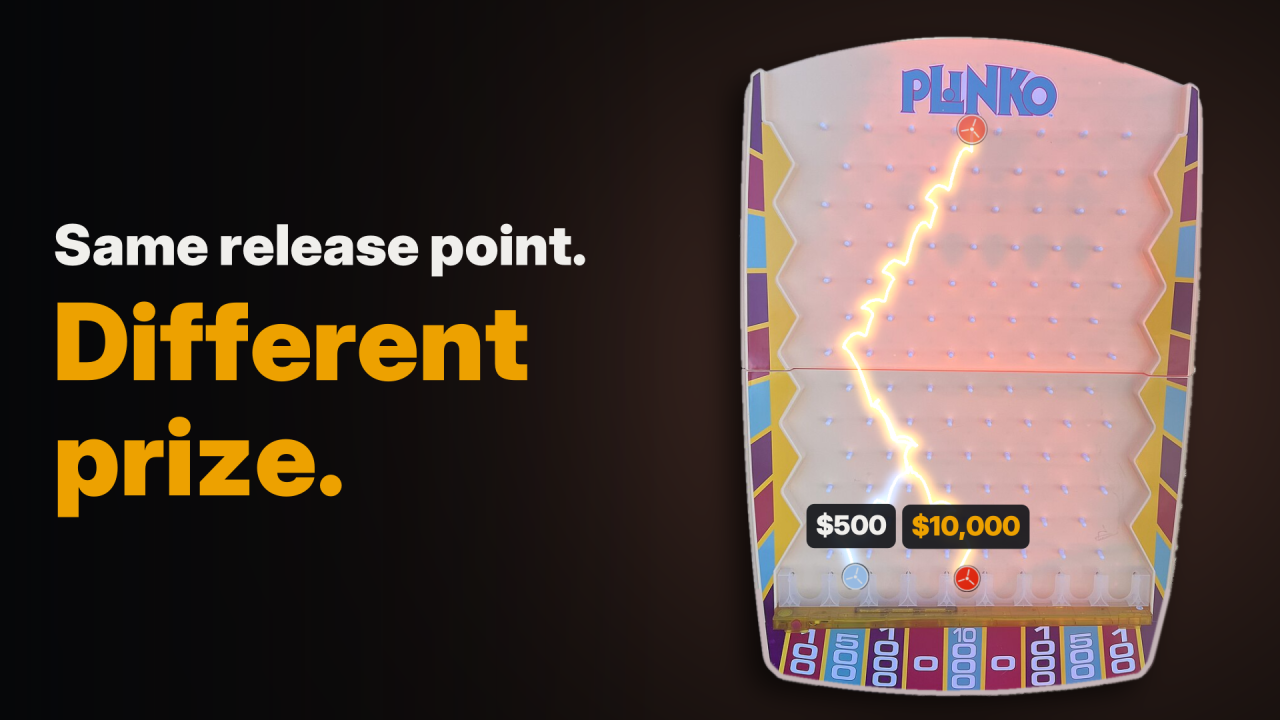
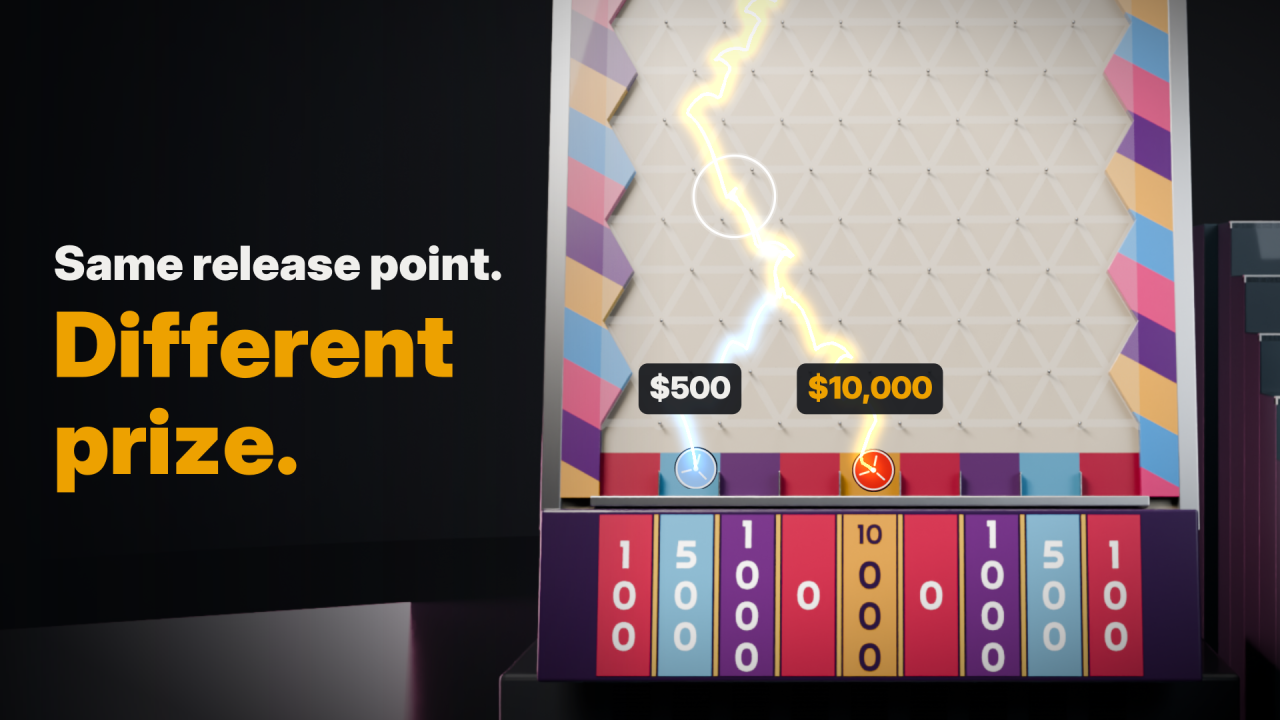
Thumbnails from our board only; photo removed
Picture 3 is now a close-up of our board's lower half (front plate): the
paths parting with a ring, rendered chips in their slots, the 1970s prize
panel. The third-party photo, its cut-out code and its credit notes are
removed; nothing in the film or thumbnails needs a credit now. The copy
lists the nine thumbnails, recommends A3/B3/C3 and pairs them with titles.

Claude-Session: https://claude.ai/code/session_01S7EUMzPhLyDgSQHoFb2Ud4

diff --git a/plinko/thumbs_chaos.py b/plinko/thumbs_chaos.py
@@ -1,4 +1,4 @@
-"""Thumbnails for the chaos cut (1280x720): every pairing of three lines of text with three pictures.
+"""Thumbnails for the chaos cut (1280x720): every pairing of three lines of text with three pictures of our board.
 
     python3 thumbs_chaos.py   -> ../videos/plinko/thumbnails/plinko_chaos_thumb_<text><picture>.png (9 files)
 
@@ -9,13 +9,10 @@ Picture 1  the hook's last frame: a $10,000 drop and its atom-close replay in $5
            with text C, which names $0)
         2  the warm-board pair: the same release point, the board 0.00006 C warmer, $10,000 and $0, with a ring
            where the paths part
-           (picture 3 with text C uses another pair from the same experiment, results/chaos2_warm_thumb.npz, that
-           also lands in $0 but parts earlier and swings up to 54 cm apart, so the split is easy to see)
-        3  a photo of a real Plinko board (the official home game), cut out of its background (smooth curved
-           base), with the film's two paths drawn on its own pegs and our chips in the slots: "The Price Is Right Plinko Home Game" by TaurusEmerald, CC BY-SA 4.0
-           (Wikimedia Commons; see
-           ../videos/plinko/thumbnails/sources/ATTRIBUTION.md). The *3 thumbnails adapt it, so they are CC BY-SA 4.0
-           too, and a description that uses one must carry the attribution.
+        3  our board up close (lower half, front camera): the paths glowing on its pins, rendered chips
+           (blender/render_thumb_chips.py) in their slots, the ring where the paths part. A and B use the hook
+           pair; C uses another pair from the same warm-board experiment (results/chaos2_warm_thumb.npz) that
+           also lands in $0 but parts earlier and swings up to 54 cm apart, so the split is easy to see.
 Text is sized down where needed so it never reaches the board.
 """
 import cairo
@@ -80,189 +77,44 @@ def labels(cm, crop, win, rep, split_t=None):
     return pill_layer(lambda x, y: np.array(cm.px(C3.board_world(x, y, 0.03), crop)), win, rep, 46, split_t)
 
 
-SRC = "../videos/plinko/thumbnails/sources/The_Price_Is_Right_Plinko_Home_Game_960px.jpg"
 CHIPS = {"red": "blender/assets/thumb/chip_red.png", "blue": "blender/assets/thumb/chip_blue.png"}
+CLOSE = (0.54, 0.553, 0.548)           # front camera, zoomed on the lower board: the split, the slots, the prize panel
 
 
-def photo_pegs(im):
-    """Peg centres in the photo: small bluish-white dots on the cream board, below the logo."""
-    b, g, r = [im[..., i].astype(int) for i in range(3)]
-    m = (((b - r) > 6) & (b > 170)).astype(np.uint8) * 255
-    _, _, st, cen = cv2.connectedComponentsWithStats(m)
-    return np.array([c for c, q in zip(cen[1:], st[1:]) if 8 <= q[cv2.CC_STAT_AREA] <= 160 and 240 < c[1] < 980
-                     and 180 < c[0] < 790])
+def closeup(win, rep, split_t=None, crop=CLOSE):
+    """Our board up close (the front plate, zoomed on its lower half): the two paths glowing on its own pins,
+    rendered chips in their slots, the ring where the paths part."""
+    cm = C3.cam("front")
+    img = C3.crop_img(C3.plate("front", "set"), crop).astype(np.float32)
+    to_px = lambda x, y: np.array(cm.px(C3.board_world(x, y, 0.03), crop))
 
-
-def board_to_photo(im):
-    """Homography from board coordinates (m) to photo pixels: the four corner pegs first, then every peg."""
-    pts = photo_pegs(im)
-    pts = pts[np.argsort(pts[:, 1])]
-    rows, cur = [], [pts[0]]
-    for p in pts[1:]:
-        if p[1] - cur[-1][1] > 12:
-            rows.append(np.array(cur))
-            cur = [p]
-        else:
-            cur.append(p)
-    rows.append(np.array(cur))
-    while len(rows[0]) < 5:                                   # stray hits on the logo above the first row
-        rows.pop(0)
-    assert len(rows) == 13, f"expected 13 peg rows, found {len(rows)}"
-    W_, Hs = CC.W, C3.B.ROW_SPACING
-    r0, r10 = rows[0][np.argsort(rows[0][:, 0])], rows[10][np.argsort(rows[10][:, 0])]
-    assert len(r0) == 8 and len(r10) == 8, "the corner rows must be complete"
-    src = np.float32([[1.5 * W_, 0], [8.5 * W_, 0], [1.5 * W_, 10 * Hs], [8.5 * W_, 10 * Hs]])
-    dst = np.float32([r0[0], r0[-1], r10[0], r10[-1]])
-    H0 = cv2.getPerspectiveTransform(src, dst)
-    pegs, _ = C3.B.pegs()
-    proj = cv2.perspectiveTransform(pegs[None].astype(np.float32), H0)[0]
-    bs, ps = [], []
-    for q in pts:
-        d = np.hypot(*(proj - q).T)
-        k = int(np.argmin(d))
-        if d[k] < 15:
-            bs.append(pegs[k])
-            ps.append(q)
-    H, _ = cv2.findHomography(np.float32(bs), np.float32(ps), cv2.RANSAC, 4.0)
-    err = np.hypot(*(cv2.perspectiveTransform(np.float32(bs)[None], H)[0] - np.float32(ps)).T)
-    print(f"photo board: {len(bs)} pegs matched, fit error {np.sqrt((err ** 2).mean()):.1f} px")
-    return H
-
-
-def board_alpha(im):
-    """The board alone: GrabCut from a box around it, the largest piece with its holes filled, smoothed, pulled in
-    1 px off the background fringe, its base replaced by one smooth curve (no feet), feathered. 0..1, photo size."""
-    mask = np.zeros(im.shape[:2], np.uint8)
-    bgd, fgd = np.zeros((1, 65), np.float64), np.zeros((1, 65), np.float64)
-    cv2.setRNGSeed(1)
-    cv2.grabCut(im, mask, (105, 105, 770, 1080), bgd, fgd, 8, cv2.GC_INIT_WITH_RECT)
-    fg = np.where((mask == cv2.GC_FGD) | (mask == cv2.GC_PR_FGD), 255, 0).astype(np.uint8)
-
-    def largest(m):
-        _, lab, st, _ = cv2.connectedComponentsWithStats(m)
-        return np.where(lab == 1 + int(np.argmax(st[1:, cv2.CC_STAT_AREA])), 255, 0).astype(np.uint8)
-    fg = largest(fg)
-    cnts, _ = cv2.findContours(fg, cv2.RETR_EXTERNAL, cv2.CHAIN_APPROX_NONE)
-    fg = cv2.drawContours(np.zeros_like(fg), cnts, -1, 255, -1)
-    k = cv2.getStructuringElement(cv2.MORPH_ELLIPSE, (11, 11))
-    fg = largest(cv2.morphologyEx(cv2.morphologyEx(fg, cv2.MORPH_OPEN, k), cv2.MORPH_CLOSE, k))
-    fg = cv2.erode(fg, cv2.getStructuringElement(cv2.MORPH_ELLIPSE, (3, 3)))
-    fg = smooth_bottom(im, fg)
-    return cv2.GaussianBlur(fg, (0, 0), 1.2).astype(np.float32) / 255.0, fg
-
-
-def bottom_rim(im, fg, width=9, above=170):
-    """A cream border of even width along the lower edge of the board (sides and base), in the border's own colour
-    sampled from the photo: where the photo's rim is lost in shadow (the bottom right) the frame still runs on.
-    Returns the band (0..1) and the colour (BGR, 0..1)."""
-    k = cv2.getStructuringElement(cv2.MORPH_ELLIPSE, (2 * width + 1, 2 * width + 1))
-    ring = cv2.subtract(fg, cv2.erode(fg, k))
-    ys, _ = np.nonzero(fg)
-    ring[:ys.max() - above] = 0
-    hsv = cv2.cvtColor(im, cv2.COLOR_BGR2HSV)
-    cream = (ring > 0) & (hsv[..., 1] < 60) & (hsv[..., 2] > 170)
-    col = np.percentile(im[cream], 70, axis=0) / 255.0
-    band = cv2.GaussianBlur(ring.astype(np.float32) / 255.0, (0, 0), 1.0)
-    return band, col
-
-
-def smooth_bottom(im, fg, rim=7, corner=41):
-    """Replace the base (feet and the uneven rim under the prize panel) with one smooth curve: fit a parabola to
-    the bottom of the coloured panel, cut everything more than `rim` px below it, then round the corners where
-    the curve meets the sides (an opening, applied to the bottom of the board only)."""
-    hsv = cv2.cvtColor(im, cv2.COLOR_BGR2HSV)
-    ys_, xs_ = np.nonzero(fg)
-    y_bot = ys_.max()
-    band = slice(y_bot - 200, y_bot + 1)
-    xs, ys = [], []
-    for x in range(fg.shape[1]):
-        col = np.nonzero((hsv[band, x, 1] > 90) & (fg[band, x] > 0))[0]
-        if len(col):
-            xs.append(x)
-            ys.append(band.start + col.max())
-    xs, ys = np.array(xs, float), np.array(ys, float)
-    lo, hi = np.percentile(xs, 12), np.percentile(xs, 88)               # the panel's straight run, not its ends
-    sel = (xs >= lo) & (xs <= hi)
-    for _ in range(3):                                                   # robust: drop columns far off the fit
-        c = np.polyfit(xs[sel], ys[sel], 2)
-        r = ys - np.polyval(c, xs)
-        sel &= np.abs(r) < 6
-    curve = np.polyval(c, np.arange(fg.shape[1])) + rim
-    yy = np.arange(fg.shape[0])[:, None]
-    # the lower board is convex: fill it to its hull, so shadow that ate into the photo's edge doesn't dent it
-    hull = cv2.fillConvexPoly(np.zeros_like(fg), cv2.convexHull(np.column_stack(np.nonzero(fg)[::-1])), 255)
-    fg = np.where(yy >= y_bot - 220, hull, fg).astype(np.uint8)
-    cut = np.where(yy <= curve[None, :], fg, 0).astype(np.uint8)
-    k = cv2.getStructuringElement(cv2.MORPH_ELLIPSE, (corner, corner))
-    opened = cv2.morphologyEx(cut, cv2.MORPH_OPEN, k)
-    low = yy >= y_bot - 160
-    return np.where(low, opened, cut).astype(np.uint8)
-
-
-def photo_frame(win, rep, split_t=None, H_board=1000):
-    """The real board from the photo, cut out of its background, with the film's two paths drawn on its own pegs:
-    one release point, two glowing trails, the chips in their slots and a faint chip where both were let go; set
-    on the film's dark backdrop with a warm light behind it and a soft shadow."""
-    OW, OH = CC.OW, CC.OH
-    im = cv2.imread(SRC)
-    Hm = board_to_photo(im)
-    ph = im.astype(np.float32) / 255.0
-
-    def proj(xy):                                                      # board metres -> photo pixels
-        return cv2.perspectiveTransform(np.float32(xy)[None], Hm)[0]
-    glow = np.zeros_like(ph)
-    core = np.zeros_like(ph)
-    for rec, col in ((rep, D.S1), (win, D.GOLD)):
-        pts = proj(rec[:, 1:3]).astype(np.int32)
-        bgr = np.array(col[::-1], np.float32)
-        cv2.polylines(glow, [pts], False, tuple(float(v) for v in bgr), 10, cv2.LINE_AA)
-        cv2.polylines(core, [pts], False, tuple(float(v) * 0.4 + 0.6 for v in bgr), 3, cv2.LINE_AA)
-    ph = np.clip(ph + 0.9 * cv2.GaussianBlur(glow, (0, 0), 9) + 0.85 * core, 0, 1)
-
-    def paste(name, xy_board, ang, alpha=1.0):
+    def paste(name, xy, ang):
         ch = cv2.imread(CHIPS[name], cv2.IMREAD_UNCHANGED)
         ys, xs = np.nonzero(ch[..., 3] > 10)
         ch = ch[ys.min():ys.max() + 1, xs.min():xs.max() + 1]
-        c = proj([xy_board])[0]
-        e = proj([[xy_board[0] + C3.B.CHIP_DIAMETER / 2, xy_board[1]]])[0]
-        d = 2 * float(np.hypot(*(e - c)))
+        c = to_px(*xy)
+        d = 2 * float(np.hypot(*(to_px(xy[0] + C3.B.CHIP_DIAMETER / 2, xy[1]) - c)))
         ch = cv2.resize(ch, (int(d), int(d)), interpolation=cv2.INTER_AREA)
         M_ = cv2.getRotationMatrix2D((d / 2, d / 2), -np.degrees(ang), 1.0)
         ch = cv2.warpAffine(ch, M_, (int(d), int(d)), flags=cv2.INTER_LINEAR, borderValue=(0, 0, 0, 0))
         x, y = int(round(c[0] - d / 2)), int(round(c[1] - d / 2))
-        a = ch[..., 3:4] / 255.0 * alpha
-        reg = ph[y:y + ch.shape[0], x:x + ch.shape[1]]
-        ph[y:y + ch.shape[0], x:x + ch.shape[1]] = ch[..., :3] / 255.0 * a + reg * (1 - a)
-    paste("red", win[0, 1:3], win[0, 3], 0.55)                     # where both were let go
+        a = ch[..., 3:4] / 255.0
+        reg = img[y:y + ch.shape[0], x:x + ch.shape[1]]
+        img[y:y + ch.shape[0], x:x + ch.shape[1]] = ch[..., :3] / 255.0 * a + reg * (1 - a)
     paste("blue", rep[-1, 1:3], rep[-1, 3])
     paste("red", win[-1, 1:3], win[-1, 3])
-    # cut the board out, give it a continuous cream rim along the bottom, and set it on the backdrop
-    al, fg = board_alpha(im)
-    band, cream = bottom_rim(im, fg)
-    shade = cv2.GaussianBlur(cv2.cvtColor(im, cv2.COLOR_BGR2GRAY).astype(np.float32) / 255.0, (0, 0), 6)
-    rim = np.clip(cream[None, None, :] * (0.92 + 0.12 * (shade[..., None] - shade[fg > 0].mean())), 0, 1)
-    ph = ph * (1 - band[..., None]) + rim * band[..., None]
-    ys, xs = np.nonzero(al > 0.5)
-    bx0, by0, bx1, by1 = xs.min() - 6, ys.min() - 6, xs.max() + 7, ys.max() + 7
-    s = H_board / (by1 - by0)
-    size = (int(round((bx1 - bx0) * s)), H_board)
-    rgb = cv2.resize(ph[by0:by1, bx0:bx1], size, interpolation=cv2.INTER_AREA)
-    a = cv2.resize(al[by0:by1, bx0:bx1], size, interpolation=cv2.INTER_AREA)[..., None]
-    w_ = size[0]
-    x0, y0 = OW - w_ - 110, (OH - H_board) // 2 + 10
-    yy, xx = np.mgrid[0:OH, 0:OW]
-    lightg = np.exp(-(((xx - (x0 + w_ / 2)) / 620.0) ** 2 + ((yy - OH / 2) / 520.0) ** 2))[..., None]
-    img = np.empty((OH, OW, 3), np.float32)
-    img[:] = (0.04, 0.045, 0.06)                                     # BGR, as cv2 and finish() use
-    img += lightg * np.array([0.10, 0.12, 0.20])                     # warm light behind the board
-    sh = np.zeros((OH, OW), np.float32)                              # soft shadow, down and to the left
-    sh[y0 + 18:y0 + 18 + H_board, x0 - 22:x0 - 22 + w_] = a[..., 0]
-    img *= 1 - 0.65 * cv2.GaussianBlur(sh, (0, 0), 22)[..., None]
-    reg = img[y0:y0 + H_board, x0:x0 + w_]
-    img[y0:y0 + H_board, x0:x0 + w_] = rgb * a + reg * (1 - a)
-    to_canvas = lambda q: (q - np.array([bx0, by0])) * s + np.array([x0, y0])
-    pills = pill_layer(lambda x, y: to_canvas(proj([[x, y]])[0]), win, rep, 40, split_t, dy=-50 * s)
-    return img, pills, x0
+    cov = C3.crop_img(C3.plate("front", "cover"), crop)
+    img = cov[..., :3] + img * (1 - cov[..., 3:4])
+    glow = np.zeros_like(img)
+    core = np.zeros_like(img)
+    for rec, col in ((rep, D.S1), (win, D.GOLD)):
+        pts = np.array([to_px(x, y) for x, y in rec[:, 1:3]]).astype(np.int32)
+        bgr = np.array(col[::-1], np.float32)
+        cv2.polylines(glow, [pts], False, tuple(float(v) for v in bgr), 12, cv2.LINE_AA)
+        cv2.polylines(core, [pts], False, tuple(float(v) * 0.4 + 0.6 for v in bgr), 4, cv2.LINE_AA)
+    img = np.clip(img + 0.9 * cv2.GaussianBlur(glow, (0, 0), 10) + 0.85 * core, 0, 1) * C3.vignette()
+    x0 = to_px(0.5 * C3.W - 0.17, C3.B.last_row_y())[0]             # the outer edge of the striped side frame
+    return img, pill_layer(to_px, win, rep, 46, split_t, dy=-70), int(x0)
 
 
 TEXTS = {
@@ -297,11 +149,11 @@ if __name__ == "__main__":
     img, cm, crop = shot_frame("warm", 15.5, CC.ov_warm)
     pics["2"] = (img, labels(cm, crop, CC.HP["warm_win"], CC.HP["warm_replay"], CC.ONE["pair_split_t"]), 860)
     wt = np.load("results/chaos2_warm_thumb.npz")                  # a pair that parts earlier and wider (chaos2.py)
-    photo = {"hook": photo_frame(CC.HP["hook_win"], CC.HP["hook_replay"]),
-             "warm": photo_frame(wt["win"], wt["replay"], split_t=float(wt["split_t"]))}
+    close = {"hook": closeup(CC.HP["hook_win"], CC.HP["hook_replay"], CC.FILM["hook_split_t"]),
+             "warm": closeup(wt["win"], wt["replay"], float(wt["split_t"]))}
     for tk, lines in TEXTS.items():
-        img, pills, x0 = photo["warm" if tk == "C" else "hook"]
-        pics["3"] = (img, pills, x0 - 120)
+        img, pills, x0 = close["warm" if tk == "C" else "hook"]
+        pics["3"] = (img, pills, x0 - 80 - 60)
         for pk, (img, pills, max_w) in pics.items():
             extra = None if (tk == "C" and pk == "1") else pills       # don't show $500 beside "became $0"
             T.finish(img.copy(), layout(lines, max_w), f"plinko_chaos_thumb_{tk}{pk}", extra=extra)

diff --git a/videos/copy/plinko_chaos_YOUTUBE.md b/videos/copy/plinko_chaos_YOUTUBE.md
@@ -9,32 +9,18 @@ by simulated releases the chip can't physically make; see `plinko/ACCURACY.md` s
 
 ## Thumbnails
 
-In `plinko/thumbnails/`, 1280x720, built by `plinko/thumbs_chaos.py`: every pairing of three lines of text with
-three pictures, named `plinko_chaos_thumb_<text><picture>.png`. YouTube's thumbnail test takes up to three.
+In `plinko/thumbnails/`, 1280x720, built by `plinko/thumbs_chaos.py` from our own board (no third-party images, so no
+credit is needed): every pairing of three lines of text with three pictures, named
+`plinko_chaos_thumb_<text><picture>.png`. YouTube's thumbnail test takes up to three.
 
-| | 1: the opening drop and its replay ($10,000 and $500) | 2: the warm-board pair ($10,000 and $0) | 3: a photo of a real Plinko board, cut out of its background, with the film's two paths and chips drawn on its pegs |
+| | 1: the opening drop and its replay, full board ($10,000 and $500) | 2: the warm-board pair, full board ($10,000 and $0) | 3: close-up of the lower board: the paths parting (ring), chips in their slots, the prize panel |
 |---|---|---|---|
 | **A** "Same release point. Different prize." | `A1` | `A2` | `A3` |
 | **B** "Match release point to an atom, different result." | `B1` | `B2` | `B3` |
 | **C** "0.00006 °C warmer: $10,000 became $0." | `C1` (prize pills left off: the chip shown lands in $500) | `C2` | `C3` |
 
-The natural pairs are A1, B1 and C2, where the picture shows exactly what the text says. Column 3 shows the same
-story on a photo of a real board (the official home game): the drop and its replay for A3 and B3, the warm-board
-pair for C3, drawn on that board's own pegs. C2 and C3 mark where the two paths part with a ring; C3 uses another
-pair from the same experiment that also lands in $0 but parts earlier and swings up to 54 cm apart, so the split
-reads at thumbnail size. Column 1 and 2 thumbnails show the film's own board and need no credit; suggested test:
-A1, B1 and C2. 
-
-**If you use a thumbnail from column 3**, add this line to the end of the description (the photo's licence requires
-the credit, and those thumbnails, as adaptations of it, are themselves CC BY-SA 4.0). The film itself does not use
-the photo.
-
-```
-Thumbnail photo: "The Price Is Right Plinko Home Game" by TaurusEmerald, CC BY-SA 4.0, via Wikimedia Commons (https://commons.wikimedia.org/wiki/File:The_Price_Is_Right_Plinko_Home_Game.jpg). Thumbnail adapted from it, also CC BY-SA 4.0 (https://creativecommons.org/licenses/by-sa/4.0/).
-```
-
-Other free Plinko photos on Commons (a library event, a county fair, a state agency booth) are homemade boards with
-identifiable people, children among them, so they are not used.
+Column 3 reads best at small sizes. C3 uses another pair from the same warm-board experiment that also lands in
+$0 but parts earlier and swings up to 54 cm apart, so the split is easy to see. Suggested test: A3, B3 and C3.
 
 ## Titles
 
@@ -46,7 +32,7 @@ identifiable people, children among them, so they are not used.
 | D | How 0.00006 °C Turns a $10,000 Plinko Drop Into $0 | 50 |
 | E | Plinko Is Chaos Theory: The Butterfly Effect on The Price Is Right | 66 |
 
-Recommended: title A with thumbnail A1 or A3; title B with B1; title D with C2. All are true to the film: the replay that "doesn't repeat" wins again
+Recommended: title A with thumbnail A3; title B with B3; title D with C3. All are true to the film: the replay that "doesn't repeat" wins again
 39% of the time at atomic precision, never every time.
 
 ## Description

diff --git a/plinko/ACCURACY.md b/plinko/ACCURACY.md
@@ -41,8 +41,7 @@ which matches the one hobby source that gives a figure for the TV board.
 Prize values. On the show the values sit under the slots with their digits stacked top to bottom (1/0/0 for
 $100, 10/0/0/0 for $10,000), in a tall panel. The Blender board copies that layout, unbranded: a 50 cm panel
 with 10 cm digits in a rounded 1970s face (Righteous, SIL Open Font License, `blender/assets/fonts`) on coloured
-columns, and slanted coloured bands on the side frames, a palette taken from the official home game (the photo
-in `videos/plinko/thumbnails/sources`); the $10,000 column is gold, the film's colour for it. Colours and fonts are styling only:
+columns, and slanted coloured bands on the side frames, a palette inspired by the official home game; the $10,000 column is gold, the film's colour for it. Colours and fonts are styling only:
 geometry is unchanged. The LED bar panel on the pedestal is the film's own invention, not the show's.
 
 ## 2. The game
